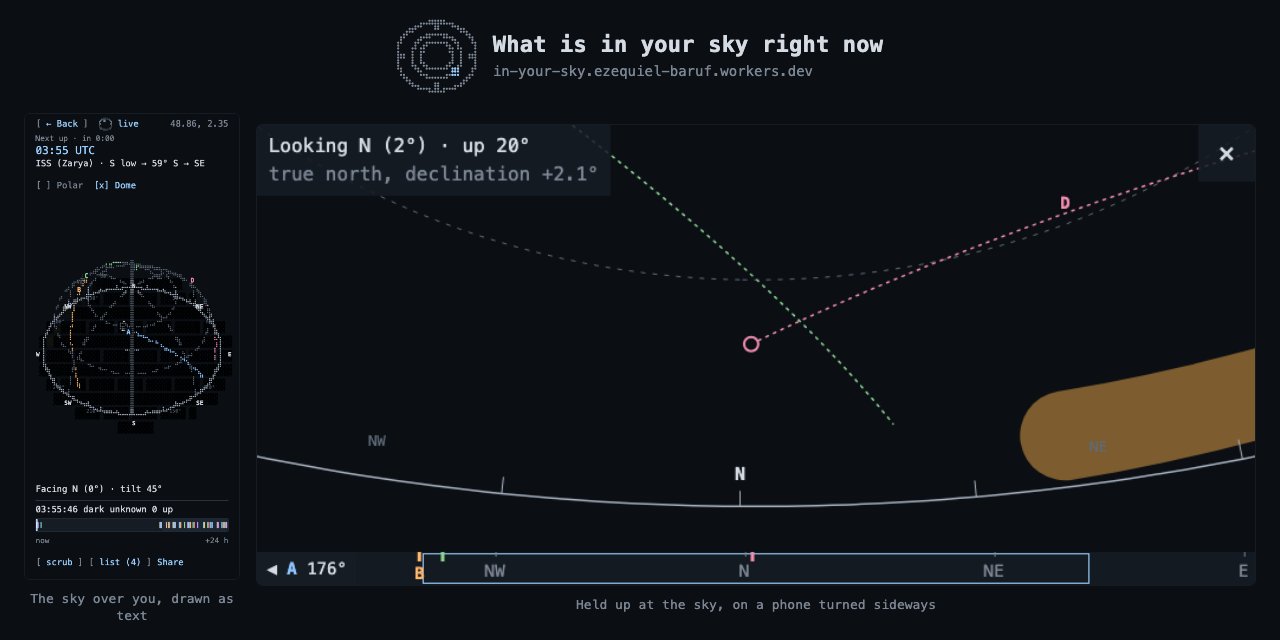
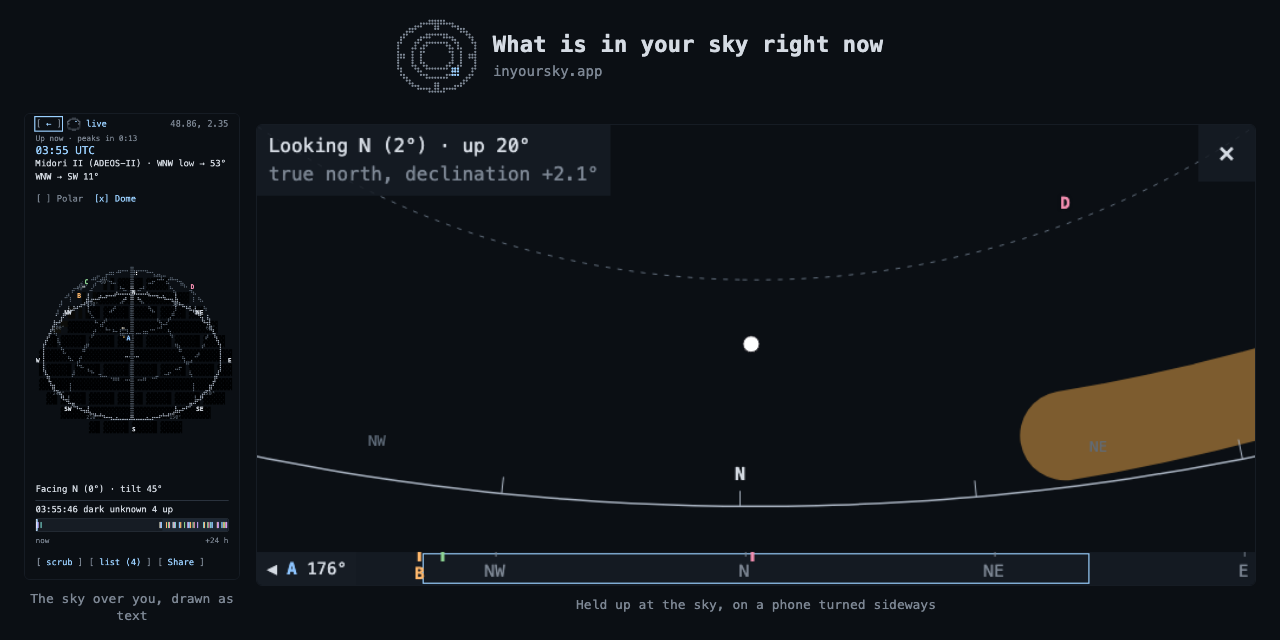
P6: The address: `inyoursky.app` bound by the deploy, named everywhere, the hero regenerated (#156)

diff --git a/tests/deploy/wrangler.test.ts b/tests/deploy/wrangler.test.ts
@@ -1,0 +1,52 @@
+/**
+ * P6 (FR-ADDR-2, PLAN D-658): `wrangler.jsonc` binds the public address as a
+ * custom-domain route the deploy applies, keeps the old address serving the same
+ * build, keeps branch previews, and still has no Worker script (D-12 as amended
+ * in PLAN §2.5). A later edit cannot drop the route or a flag silently.
+ */
+import { readFileSync } from 'node:fs';
+import { describe, expect, it } from 'vitest';
+
+interface WranglerConfig {
+  name?: string;
+  main?: string;
+  routes?: { pattern: string; custom_domain?: boolean }[];
+  workers_dev?: boolean;
+  preview_urls?: boolean;
+  assets?: { directory?: string; not_found_handling?: string };
+}
+
+/** The file is JSONC: whole-line `//` comments only, which is all it carries. */
+function readWrangler(): WranglerConfig {
+  const text = readFileSync('wrangler.jsonc', 'utf8')
+    .split('\n')
+    .filter((line) => !/^\s*\/\//.test(line))
+    .join('\n');
+  return JSON.parse(text) as WranglerConfig;
+}
+
+describe('wrangler.jsonc (FR-ADDR-2, D-658)', () => {
+  const config = readWrangler();
+
+  it('binds inyoursky.app as a custom domain the deploy creates', () => {
+    expect(config.routes).toEqual([{ pattern: 'inyoursky.app', custom_domain: true }]);
+  });
+
+  it('keeps the old address serving the same build (FR-ADDR-3)', () => {
+    expect(config.workers_dev).toBe(true);
+  });
+
+  it('keeps a preview URL per branch: a custom domain has no preview form', () => {
+    expect(config.preview_urls).toBe(true);
+  });
+
+  it('has no Worker script: assets only, dist/ served as-is (D-12)', () => {
+    expect(config.main).toBeUndefined();
+    expect(config.assets?.directory).toBe('./dist');
+    expect(config.assets?.not_found_handling).toBe('404-page');
+  });
+
+  it('keeps the worker name the old address is built from', () => {
+    expect(config.name).toBe('in-your-sky');
+  });
+});

diff --git a/scripts/readme-hero.ts b/scripts/readme-hero.ts
@@ -215,7 +215,7 @@ function compose(layout: Layout, urls: ReadonlyMap<string, string>, sources: rea
       <figcaption>${placed.source.caption}</figcaption>
     </figure>`;
   const title = layout.title
-    ? `<header>${lockup()}<div class="wordmark"><h1>What is in your sky right now</h1><p>in-your-sky.ezequiel-baruf.workers.dev</p></div></header>`
+    ? `<header>${lockup()}<div class="wordmark"><h1>What is in your sky right now</h1><p>inyoursky.app</p></div></header>`
     : '';
   return `<!doctype html>
 <html lang="en"><head><meta charset="utf-8"><style>

diff --git a/tests/docs/public.test.ts b/tests/docs/public.test.ts
@@ -29,7 +29,7 @@ const release = readFileSync('docs/RELEASE.md', 'utf8');
 const pkg = JSON.parse(readFileSync('package.json', 'utf8')) as { license?: string; private?: boolean };
 
 /** The live site, which is the one URL the first screen has to carry. */
-const LIVE = 'https://in-your-sky.ezequiel-baruf.workers.dev';
+const LIVE = 'https://inyoursky.app';
 
 /** `![alt](url)`, the only image syntax either document uses. */
 const IMAGE = /!\[([^\]]*)\]\(([^)\s]+)\)/g;

diff --git a/docs/RELEASE.md b/docs/RELEASE.md
@@ -30,7 +30,7 @@ its §12.1 has to be run from a clean browser before anything else in it.
       prints `OVERALL: PASS` for Neuquén, Paris and Singapore.
 - [ ] The dome raster snapshot (`src/ui/components/guide/skychart/dome/__snapshots__/SkyDome.golden.txt`)
       was regenerated on purpose if it changed, and the change is explained in the PR.
-- [ ] The branch preview (`https://<branch>-in-your-sky.ezequiel-baruf.workers.dev`) opens,
+- [ ] The branch preview (the per-branch URL `docs/DEPLOY.md` gives under *Domain*) opens,
       computes passes for a typed location, and DevTools shows no console error and no
       Content-Security-Policy violation while opening a pass, dragging the dome and
       toggling to the polar view.
@@ -42,7 +42,7 @@ Replace the host with the preview URL to check a branch.
 - [ ] Headers, as in `README.md`:
 
   ```
-  SITE=https://in-your-sky.ezequiel-baruf.workers.dev
+  SITE=https://inyoursky.app
   curl -sI $SITE/ | grep -iE 'content-security-policy|referrer-policy|permissions-policy'
   curl -sI $SITE/assets/$(curl -s $SITE/ | grep -oE 'assets/[^"]+\.js' | head -1 | cut -d/ -f2) | grep -i cache-control
   ```
@@ -176,7 +176,7 @@ Owner steps, in this order, and none of them belong to a task session:
 
 - [ ] `package.json` is `1.0.0` on `main` and `docs/RELEASE.md` is this file.
 - [ ] Tag it: `git tag -a v1.0.0 -m "v1: outdoor-ready" && git push origin v1.0.0`.
-- [ ] Deploy `main` to `https://in-your-sky.ezequiel-baruf.workers.dev` and run §2 and §5
+- [ ] Deploy `main` to `https://inyoursky.app` and run §2 and §5
       against production.
 - [ ] Record in the release PR: the bundle table, the §3 and §6.1 device numbers, the §4
       Heavens-Above comparison with the observer and both element epochs, and the date.
@@ -268,7 +268,7 @@ Owner steps, in this order, and none of them belong to a task session:
       `TASKS.md`.
 - [ ] The `captures.yml` run on the merge commit is green: 92 files, no missing capture.
 - [ ] Tag it: `git tag -a v1.1.0 -m "v1.1: the phone pass" && git push origin v1.1.0`.
-- [ ] Deploy `main` to `https://in-your-sky.ezequiel-baruf.workers.dev` and run §2 and §5
+- [ ] Deploy `main` to `https://inyoursky.app` and run §2 and §5
       against production.
 - [ ] Record in the release PR: the bundle table, the §3, §6.1, §7.1 and §7.2 device numbers
       with the two phones named, the §4 Heavens-Above comparison with the observer and both
@@ -316,7 +316,7 @@ Owner steps, in this order, and none of them belong to a task session:
       `TASKS.md`.
 - [ ] The `captures.yml` run on the merge commit is green: 128 files, no missing capture.
 - [ ] Tag it: `git tag -a v1.2.0 -m "v1.2: follow and the fixes" && git push origin v1.2.0`.
-- [ ] Deploy `main` to `https://in-your-sky.ezequiel-baruf.workers.dev` and run §2 and §5
+- [ ] Deploy `main` to `https://inyoursky.app` and run §2 and §5
       against production.
 - [ ] Record in the release PR: the bundle table, the §3, §6.1 and §8.1 device numbers, the
       §4 Heavens-Above comparison with the observer and both element epochs, and the date.
@@ -365,7 +365,7 @@ Owner steps, in this order, and none of them belong to a task session:
 - [ ] The `captures.yml` run on the merge commit is green: 116 files, no missing capture.
 - [ ] Tag it: `git tag -a v1.3.0 -m "v1.3: the sky screen" && git push origin v1.3.0` — on the
       release commit's SHA, not on whatever `main` has reached by then.
-- [ ] Deploy `main` to `https://in-your-sky.ezequiel-baruf.workers.dev` and run §2 and §5
+- [ ] Deploy `main` to `https://inyoursky.app` and run §2 and §5
       against production.
 - [ ] Record in the release PR: the bundle table, the §3, §6.1 and §9.1 device numbers, the
       §4 Heavens-Above comparison with the observer and both element epochs, and the date.
@@ -388,7 +388,7 @@ URL or the phase changes.
 
 - [ ] **Homepage URL** (same dialog, *Website*):
 
-      https://in-your-sky.ezequiel-baruf.workers.dev
+      https://inyoursky.app
 
 - [ ] **Social preview** (*Settings → General → Social preview → Upload an image*),
       1280 × 640, regenerated with `npx tsx scripts/readme-hero.ts`:
@@ -513,7 +513,7 @@ Owner steps, in this order, and none of them belong to a task session:
 - [ ] The `captures.yml` run on the merge commit is green: 124 files, no missing capture.
 - [ ] Tag it: `git tag -a v1.4.0 -m "v1.4: the shape, the chunk and the list" && git push origin v1.4.0`
       — on the release commit's SHA, not on whatever `main` has reached by then.
-- [ ] Deploy `main` to `https://in-your-sky.ezequiel-baruf.workers.dev` and run §2 and §5
+- [ ] Deploy `main` to `https://inyoursky.app` and run §2 and §5
       against production.
 - [ ] Record in the release PR: the bundle table, the §3, §6.1 and §11.1 device numbers,
       the §4 Heavens-Above comparison with the observer and both element epochs, and the
@@ -681,7 +681,7 @@ Owner steps, in this order, and none of them belong to a task session:
       — **on the release commit's SHA, not on whatever `main` has reached by then**. A
       squash merge rewrites the commit, and `main`'s head an hour later is not the build
       any of this was run against.
-- [ ] Deploy `main` to `https://in-your-sky.ezequiel-baruf.workers.dev` and run §2 and §5
+- [ ] Deploy `main` to `https://inyoursky.app` and run §2 and §5
       against production. §2's manifest and icon checks matter more than usual: the
       favicons and the two PNG icons are new in this phase and are generated files.
 - [ ] Record in the release PR: the bundle table with F-69's overrun named, the §3,
@@ -809,10 +809,64 @@ Owner steps, in this order, and none of them belong to a task session:
 - [ ] Tag it: `git tag -a v2.1.0 <sha> -m "v2.1: the audit and the flow" && git push
       origin v2.1.0` — **with the release commit's SHA written in**, not whatever
       `main` has reached by then (a squash merge rewrites the commit).
-- [ ] Deploy `main` to `https://in-your-sky.ezequiel-baruf.workers.dev` and run §2 and §5
+- [ ] Deploy `main` to `https://inyoursky.app` and run §2 and §5
       against production.
 - [ ] Run §13.1 to §13.4 on the phone, and write the results into the register: F-97
       confirmed or closed, OQ-35's remaining half closed or turned into findings.
 - [ ] Record in the release PR: the bundle table with main against its new 170, the
       screen reader and its version, the §4 Heavens-Above comparison with the observer
       and both element epochs, and the date.
+
+## 14. v2.2 (spec §9 Phase 2i)
+
+Everything above still applies, §1 to §5 included, and §12's runs stay the reference for
+the screens v2.2 did not change. v2.2 is the showcase: the repository in front of a second
+audience, one product change (the footer's glyphcss credit, FR-SHOW-8), and the address.
+`https://inyoursky.app` is now the origin every document names; the old address (the one
+`docs/DEPLOY.md`'s *Domain* section keeps) serves on unchanged with its own browser state
+(FR-ADDR-3), and §2 and §5 run against the new one. Its §13 phone run is v2.1's and stays owed.
+
+### 14.1 The two origins (FR-ADDR-2)
+
+The first deploy from `main` after P6 merges is what binds the domain: `wrangler deploy`
+creates the DNS record and the certificate for the `routes` entry in `wrangler.jsonc`.
+Nothing is set in the dashboard.
+
+- [ ] Both origins print the three PLAN §11 headers (the two `curl -sI` lines under
+      *Domain* in `docs/DEPLOY.md`), and the immutable `Cache-Control` on an asset at the
+      new one (§2's third line with `SITE=https://inyoursky.app`).
+- [ ] The app opens at `https://inyoursky.app`: a typed place computes passes, the dome
+      opens, DevTools shows no console error and no Content-Security-Policy violation.
+      The CSP's `connect-src 'self'` needed no host added.
+- [ ] The old address opens the same build, and a browser that had a place saved there
+      still has it there and starts fresh at the new one (FR-ADDR-3; no migration, no
+      banner).
+- [ ] The GitHub *Website* field reads `https://inyoursky.app` (§10), checked with
+      `gh repo view --json homepageUrl`.
+
+### 14.2 The hero and the captures (FR-ADDR-4, FR-SHOW-5, FR-SHOW-8)
+
+- [ ] `docs/readme/social-preview.png` prints `inyoursky.app` under the title, and `docs/readme/hero.png` was regenerated beside it (the hero carries no title line, D-661)
+      under the title, regenerated by `npx tsx scripts/readme-hero.ts` from the unchanged
+      captures; the README's image is legible at the width GitHub renders it.
+- [ ] `docs/screenshots/` changed only in the footer captures R102 re-shot for the
+      glyphcss credit, in both languages; every other file is byte-identical to the
+      `v2.1.0` set (FR-SHOW-5).
+- [ ] The footer names glyphcss and Juan Cruz Fortunatti with links, in both languages,
+      on the phone and on the desktop (US-36 AC6).
+
+### 14.3 The release itself
+
+Owner steps, in this order, and none of them belong to a task session:
+
+- [ ] `package.json` is `2.2.0` on `main` and every task of the phase is checked off in
+      `TASKS.md` (P6, R102, P3, P4, P5).
+- [ ] `npx knip` on the release commit reports nothing, and the bundle table shows no
+      chunk larger than the `v2.1.0` build's (FR-SHOW-4, FR-SHOW-5).
+- [ ] Tag it: `git tag -a v2.2.0 <sha> -m "v2.2: the showcase" && git push origin
+      v2.2.0` — **with the release commit's SHA written in**, not whatever `main` has
+      reached by then (V22-12; a squash merge rewrites the commit).
+- [ ] Deploy `main` to `https://inyoursky.app` and run §2, §5 and §14.1 against
+      production, on both origins.
+- [ ] Record in the release PR: the two header blocks, the bundle table, the knip
+      output, and the date.

diff --git a/PLAN.md b/PLAN.md
@@ -905,6 +905,9 @@ The phase changes nothing the app does. Its decisions are about how a claim abou
 - **D-657 — The chart's credit is a fourth `Attribution` with two links.** (FR-SHOW-8, FR-X-2 as amended; V22-10.) `ATTRIBUTION_URLS` gains `glyphcss` (`https://glyphcss.com`) and `fortunatti` (`https://www.linkedin.com/in/juancfortunatti/`). The catalogs gain `footer.chart`, a `LinkedText` with two links — `{ before: 'Sky chart: ', link: 'glyphcss', middle: ' by ', link2: 'Juan Cruz Fortunatti', after: '.' }` — so `Linked` learns an optional second anchor rather than the footer gaining a second component; `footer.short.chart` is `'Chart:'` / `'Carta:'` for the wide row (D-120), where the two names stand as links beside the three sources. The line form (D-548) carries the same text after the credit. `Footer.test.tsx` asserts the four credits' hrefs in both languages and forms; `tests/e2e/identity.spec.ts`'s count of the home's controls (its comment says "3 footer links") moves up by two. The one-row forms may wrap once where the fourth item does not fit (FR-SHOW-8); the task measures the narrowest wide width at which the Spanish row holds one line and writes it in the `Done` note — no literal is pinned for it. The captures: the task runs `CAPTURES=1 npx playwright test v1-captures -g home` and the same for any other `captureSet.ts` entry whose screen renders `<Footer>` (the settings page has its own foot, FR-SET-1, and is not one), and commits those files only, naming them in its `Done` note; `captures.test.ts` is unchanged because no file is added or removed. The README's glyphcss paragraph gains the author's profile link, written by P3 in wave 2 (the README is `docs`'s; R102 touches no document), and FR-PUB-4's test keeps passing because it checks the six names and licence strings, which do not change.
 - **D-659 — No economy for the showcase: `fable` implements, `opus` reviews, 500 turns, no fallback.** (V22-13; §16.3, §16.6.) The owner's instruction on reviewing the draft: this phase is how the app and the process are shown, so no token or model saving applies to it. The driver gains three optional task fields — `Review:`, `Turns:`, `Fallback:` — read by `scripts/sdd/tasks.ts` and honoured by `sdd-run.ts` (`reviewModelFor`, `limitsFor`, `fallbackFor`), with `tests/sdd/tasks.test.ts` pinning each and a bad value reported as a breakdown problem like any other field. Fields on the task rather than flags on the run, so the decision survives a `--wave` typed from memory; scaling the wall clock and the review's cap with `Turns:` so a doubled cap is not a session timing out with turns to spare. Made as repo tooling on the spec branch before the first wave (D-86's precedent), the one code change of the spec pull request.
 - **D-658 — The custom domain is a route in `wrangler.jsonc`, and the deploy binds it.** (FR-ADDR-1..4; V22-11; D-12 unchanged.) `"routes": [{ "pattern": "inyoursky.app", "custom_domain": true }]` beside `"workers_dev": true` and `"preview_urls": true`. `wrangler deploy` — the command Workers Builds runs after `npm run build` — creates the DNS record and provisions the certificate for a custom domain whose zone is in the account, which is why the task's `Precondition:` is the zone and not a dashboard step; the first deploy after the merge is the binding, and the task cannot see it succeed (a session has no `curl` to the internet), so the owner's `curl -sI` on both origins is the gate. No `main` entry, no script: assets only, D-12 as amended in §2.5. The eight `workers.dev` strings in the documents become the new origin except `docs/DEPLOY.md`'s branch-preview line and its one "still serves" sentence; `tests/docs/public.test.ts`'s `LIVE` and `scripts/readme-hero.ts`'s wordmark change with them, and the script is re-run so `docs/readme/hero.png` and `social-preview.png` print the new line from the unchanged captures (FR-PUB-2's test holds; FR-SHOW-5 is untouched because `docs/screenshots/` is). The deploy test gains a `wrangler.jsonc` assertion so a later edit cannot drop the route or the `workers_dev` flag silently. `docs/DEPLOY.md` gains a *Domain* section (registrar, auto-renew, the renewal date, the GitHub *Website* field, the two `curl` checks) and `docs/RELEASE.md`'s metadata item points at the new homepage. The old origin's IndexedDB and prefs stay where they are (FR-ADDR-3): no code reads `location.hostname`, and none starts to.
+- **D-660 — The `workers.dev` scan is a fixed-string scan.** (P6; FR-ADDR-1, FR-SHOW-1.) `wrangler.jsonc` must keep `"workers_dev": true` and `tests/deploy/wrangler.test.ts` asserts it, and `git grep 'workers.dev'` without `-F` matches that key through the unescaped dot — so the task's `Done when` line, read literally, could never print `docs/DEPLOY.md` alone. The check that means what FR-ADDR-1 says is `git grep -nF 'workers.dev' -- ':!SPEC.md' ':!PLAN.md' ':!TASKS.md' ':!package-lock.json'`, which prints `docs/DEPLOY.md` only; `accuracy.test.ts` (P3) uses the fixed string. Two lines were reworded rather than carried: `docs/RELEASE.md` §1's branch-preview item now points at `docs/DEPLOY.md`'s *Domain* section instead of naming the preview URL, and `wrangler.jsonc`'s comment says "per-branch URL", so the address is written in the two places FR-ADDR-1 allows and nowhere else.
+- **D-661 — The hero carries no wordmark; the social preview does.** (P6; FR-ADDR-4, D-370.) `scripts/readme-hero.ts` composes `hero.png` with `title: false` — the README's prose above the image already names the app and the address, and every pixel of the hero goes to the screens — and `social-preview.png` with the lockup and the wordmark line. Only the preview prints `inyoursky.app`; the hero was regenerated in the same run because FR-ADDR-4 says both are, and its bytes differ from `main`'s through the renderer (Chromium's text rasterisation on the machine that ran the script), not through its content. The pair stays the output of one run so the two never disagree (FR-PUB-11).
+- **D-662 — `docs/RELEASE.md` §14 is written by the phase's first task as a skeleton.** (P6; V22-12.) The section carries the checks only the owner can run after the merge deploys — both origins' header blocks, the app at the new address, the old origin's state left in place, the *Website* field — plus the hero, the footer captures R102 re-shoots, the knip and bundle items P5 proves, and the `v2.2.0` tag with the SHA written in. Later tasks of the phase append items under §14.1–§14.3 rather than restructure it, so the checklist exists before the second wave needs a place to write.
 - **D-656 — No `src/` behaviour, no `Done` note about behaviour.** The three tasks' `Done` notes record what was deleted, what was corrected and what was recorded, with the commands; a task that finds a behaviour worth changing writes a finding under §4.20 and leaves it.
 
 ## 3. Architecture Overview

diff --git a/docs/DEPLOY.md b/docs/DEPLOY.md
@@ -16,8 +16,9 @@ Hosting is Cloudflare Workers static assets wired to this repository through Wor
 Builds (PLAN D-12 as amended in §2.5): a push to `main` builds and deploys production;
 a push to any other branch, once *non-production branch builds* are enabled, uploads a
 preview version with its own URL. `wrangler.jsonc` at the root holds the whole
-configuration (assets-only Worker, `dist/` as the assets directory, no Worker script), so
-the build never has to guess.
+configuration (assets-only Worker, `dist/` as the assets directory, no Worker script, and
+the `routes` entry that binds the public address — see *Domain* below), so the build
+never has to guess.
 
 ## How the project was created, once, in the dashboard
 
@@ -26,8 +27,38 @@ the build never has to guess.
    `npm run build`, deploy command `npx wrangler deploy` (the defaults). No environment
    variables; the Node version comes from `.node-version` (24, the same as CI).
 3. *Settings → Builds → Branch control*: enable non-production branch builds so every
-   branch gets a preview version, aliased by branch name:
-   `https://<branch>-in-your-sky.ezequiel-baruf.workers.dev`.
+   branch gets a preview version, aliased by branch name (the URL is under *Domain*
+   below).
+
+## Domain
+
+The public address is `https://inyoursky.app` (SPEC §4.44, FR-ADDR-1..4; PLAN D-658).
+It is a custom domain on the Worker, bound by the deploy and not by the dashboard:
+`wrangler.jsonc` carries `"routes": [{ "pattern": "inyoursky.app", "custom_domain": true }]`,
+and the `npx wrangler deploy` that Workers Builds runs from `main` creates the DNS record
+and provisions the certificate in the zone. The only precondition is the zone itself,
+active in the Cloudflare account; nothing is clicked for the binding. No `www` record:
+the apex is the one name bound, and a `www` is a later decision if a reader ever types
+one.
+
+- **Registrar:** Cloudflare Registrar, bought 2026-09-25, auto-renew on. The renewal
+  falls on 2026-09-25 each year; the card on the account is what pays it.
+- **GitHub *Website* field:** set to `https://inyoursky.app` (§10 of `docs/RELEASE.md`,
+  FR-PUB-11), by hand, in the repository's *About* dialog.
+- **Branch previews:** unchanged, `https://<branch>-in-your-sky.ezequiel-baruf.workers.dev`
+  — a custom domain has no preview form, so `preview_urls` stays on in `wrangler.jsonc`.
+- **The old address:** `https://in-your-sky.ezequiel-baruf.workers.dev` still serves the
+  same build with its own browser state — IndexedDB, the prefs record, the saved places
+  and an installed app all belong to an origin, so a reader who used it finds a first run
+  at the new address and keeps everything at the old one; no redirect (that would need a
+  Worker script) and no migration (FR-ADDR-3).
+
+After a deploy, check both origins; each prints the PLAN §11 header block:
+
+```
+curl -sI https://inyoursky.app | grep -iE 'content-security-policy|referrer-policy|permissions-policy'
+curl -sI https://in-your-sky.ezequiel-baruf.workers.dev | grep -iE 'content-security-policy|referrer-policy|permissions-policy'
+```
 
 ## Renaming the worker
 
@@ -50,7 +81,7 @@ runs the app under it, so a CSP violation fails CI before it reaches the site. T
 deployment by hand (replace the host with a preview URL to check a branch):
 
 ```
-SITE=https://in-your-sky.ezequiel-baruf.workers.dev
+SITE=https://inyoursky.app
 curl -sI $SITE/ | grep -iE 'content-security-policy|referrer-policy|permissions-policy'
 curl -sI $SITE/assets/$(curl -s $SITE/ | grep -oE 'assets/[^"]+\.js' | head -1 | cut -d/ -f2) | grep -i cache-control
 ```

diff --git a/README.md b/README.md
@@ -4,7 +4,7 @@ Type a location and see which of about thirty bright satellites cross the sky ov
 tonight: when each one appears, where to look for it, how long it stays and how bright it
 gets. It runs in the browser, with no backend and no account.
 
-**Live:** <https://in-your-sky.ezequiel-baruf.workers.dev>
+**Live:** <https://inyoursky.app>
 
 ![Three screens: a phone showing the sky over you drawn as braille text with the passes and the time stripe under it, a phone turned sideways held up at the sky, and a laptop showing when the next pass starts, how high it climbs and how bright it gets](docs/readme/hero.png)
 

diff --git a/TASKS.md b/TASKS.md
@@ -2582,7 +2582,7 @@ Decision blocks (§16.2), reserved in PLAN §16.18: **P6 D-660..D-662, R102 D-66
 
 ### Wave 1
 
-- [ ] **P6 — The address: `inyoursky.app` bound by the deploy, named everywhere, the hero regenerated**
+- [x] **P6 — The address: `inyoursky.app` bound by the deploy, named everywhere, the hero regenerated** *(done 2026-09-25; the `workers.dev` scan is `git grep -F`, since `workers_dev` in `wrangler.jsonc` matches the unescaped dot — D-660; only the social preview prints the wordmark, D-661)*
   - **Lane:** docs
   - **Model:** fable
   - **Review:** opus
